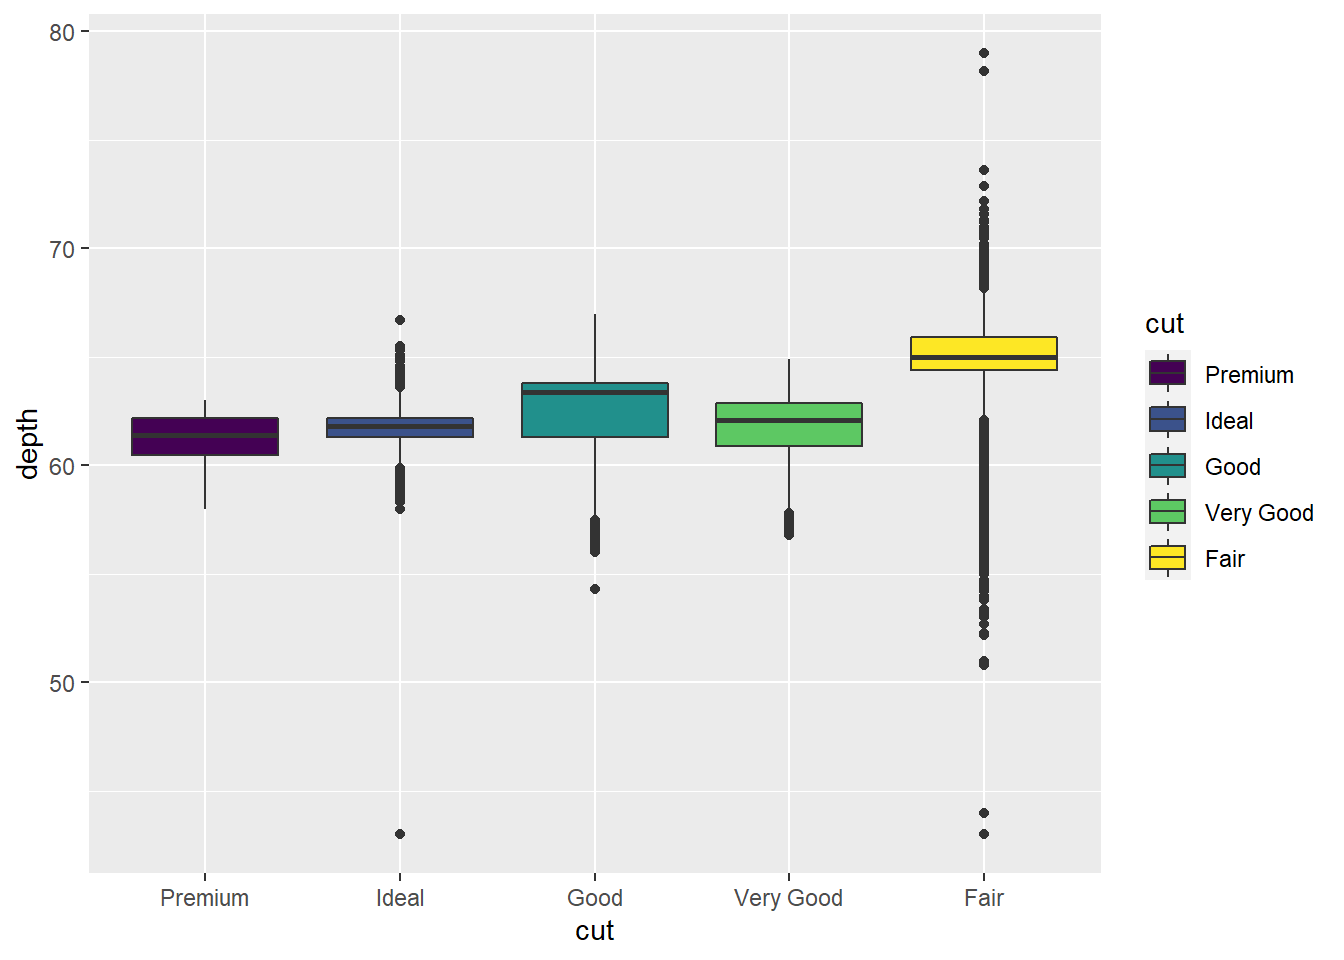
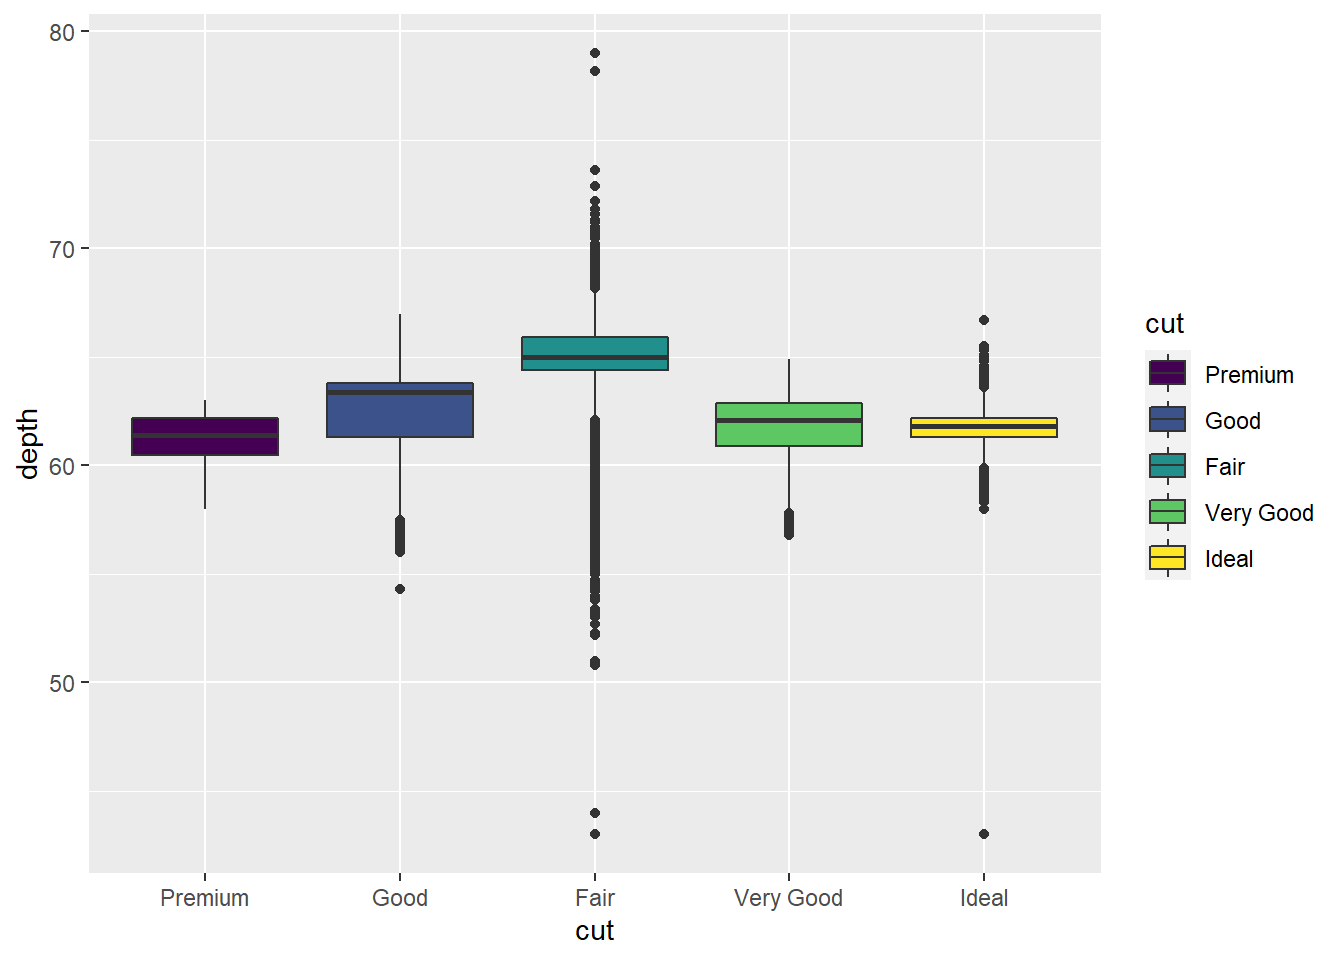
update

diff --git a/content/functions/functions-presentation-ROGASH.html b/content/functions/functions-presentation-ROGASH.html
@@ -1,7 +1,7 @@
 ---
 title: 'forcats::fct_relevel'
 author: "Lisa Rogash"
-date: "2021-02-10"
+date: "2021-02-12"
 menu:
   functions:
     weight: 10
@@ -54,7 +54,7 @@ data(diamonds)</code></pre>
 <pre class="r"><code>diamonds &lt;- diamonds %&gt;% 
   mutate(cut = fct_shuffle(cut))
 levels(diamonds$cut)</code></pre>
-<pre><code>## [1] &quot;Premium&quot;   &quot;Ideal&quot;     &quot;Good&quot;      &quot;Very Good&quot; &quot;Fair&quot;</code></pre>
+<pre><code>## [1] &quot;Premium&quot;   &quot;Good&quot;      &quot;Fair&quot;      &quot;Very Good&quot; &quot;Ideal&quot;</code></pre>
 <pre class="r"><code>diamonds %&gt;%
  ggplot(aes(x=cut,y=depth,fill=cut)) +
   geom_boxplot()</code></pre>
@@ -65,14 +65,14 @@ levels(diamonds$cut)</code></pre>
 <pre class="r"><code>diamonds &lt;- diamonds %&gt;% 
   mutate(cut = fct_relevel(cut, &quot;Fair&quot;))
 levels(diamonds$cut)</code></pre>
-<pre><code>## [1] &quot;Fair&quot;      &quot;Premium&quot;   &quot;Ideal&quot;     &quot;Good&quot;      &quot;Very Good&quot;</code></pre>
+<pre><code>## [1] &quot;Fair&quot;      &quot;Premium&quot;   &quot;Good&quot;      &quot;Very Good&quot; &quot;Ideal&quot;</code></pre>
 <blockquote>
 <p>If you want to move a value to a different spot, you add in the argument “after” which you set to the integer value of the spot you want the value to be after. If you want the value at the end, but you don’t know how many levels there are, you can use <code>after=Inf</code> (don’t forget the capital ‘I’!).</p>
 </blockquote>
 <pre class="r"><code>diamonds &lt;- diamonds %&gt;% 
   mutate(cut = fct_relevel(cut, &quot;Good&quot;, after=1))
 levels(diamonds$cut)</code></pre>
-<pre><code>## [1] &quot;Fair&quot;      &quot;Good&quot;      &quot;Premium&quot;   &quot;Ideal&quot;     &quot;Very Good&quot;</code></pre>
+<pre><code>## [1] &quot;Fair&quot;      &quot;Good&quot;      &quot;Premium&quot;   &quot;Very Good&quot; &quot;Ideal&quot;</code></pre>
 <blockquote>
 <p>If you want to move multiple values, you can set your second argument to a vector of the elements you want to move.</p>
 </blockquote>
@@ -92,7 +92,7 @@ levels(diamondssort$cut)</code></pre>
 diamondssample &lt;- diamonds %&gt;% 
   mutate(cut = fct_relevel(cut, sample))
 levels(diamondssample$cut)</code></pre>
-<pre><code>## [1] &quot;Good&quot;      &quot;Premium&quot;   &quot;Ideal&quot;     &quot;Fair&quot;      &quot;Very Good&quot;</code></pre>
+<pre><code>## [1] &quot;Good&quot;      &quot;Very Good&quot; &quot;Premium&quot;   &quot;Ideal&quot;     &quot;Fair&quot;</code></pre>
 <pre class="r"><code>#reverses the order
 diamondsrev &lt;- diamonds %&gt;% 
   mutate(cut = fct_relevel(cut, rev))

diff --git a/content/class/06-class.html b/content/class/06-class.html
@@ -35,7 +35,8 @@ editor_options:
 
 <div id="class-video" class="section level2">
 <h2>Class Video</h2>
-<p>To be added after class.</p>
+<iframe width="560" height="315" src="https://www.youtube.com/embed/7c3xGQBmjIs" frameborder="0" allow="accelerometer; autoplay; clipboard-write; encrypted-media; gyroscope; picture-in-picture" allowfullscreen>
+</iframe>
 </div>
 <div id="slides" class="section level2">
 <h2>Slides</h2>

diff --git a/content/functions/count_NGarimella.html b/content/functions/count_NGarimella.html
@@ -1,7 +1,7 @@
 ---
 title: 'dplyr::count()'
 author: "Nathalie Garimella"
-date: "2021-02-10"
+date: "2021-02-12"
 output: html_document
 menu:
   functions:

diff --git a/content/functions/fxns-geom_smooth-KRAMARZ.html b/content/functions/fxns-geom_smooth-KRAMARZ.html
@@ -1,7 +1,7 @@
 ---
 title: 'ggplot2::geom_smooth()'
 author: "Jessica Kramarz"
-date: "2021-02-10"
+date: "2021-02-12"
 menu:
   functions:
     weight: 2

diff --git a/content/functions/breakspretty.html b/content/functions/breakspretty.html
@@ -1,7 +1,7 @@
 ---
 title: 'scales::breaks_pretty()'
 author: "Sarah Gothard"
-date: "2021-02-10"
+date: "2021-02-12"
 menu:
   functions:
     weight: 7

diff --git a/content/functions/presentation_slicemax_Hopkins_v2.html b/content/functions/presentation_slicemax_Hopkins_v2.html
@@ -1,7 +1,7 @@
 ---
 title: 'dplyr::slice_max()'
 author: "Bradley Hopkins"
-date: "2021-02-10"
+date: "2021-02-12"
 menu:
   functions:
     weight: 3
